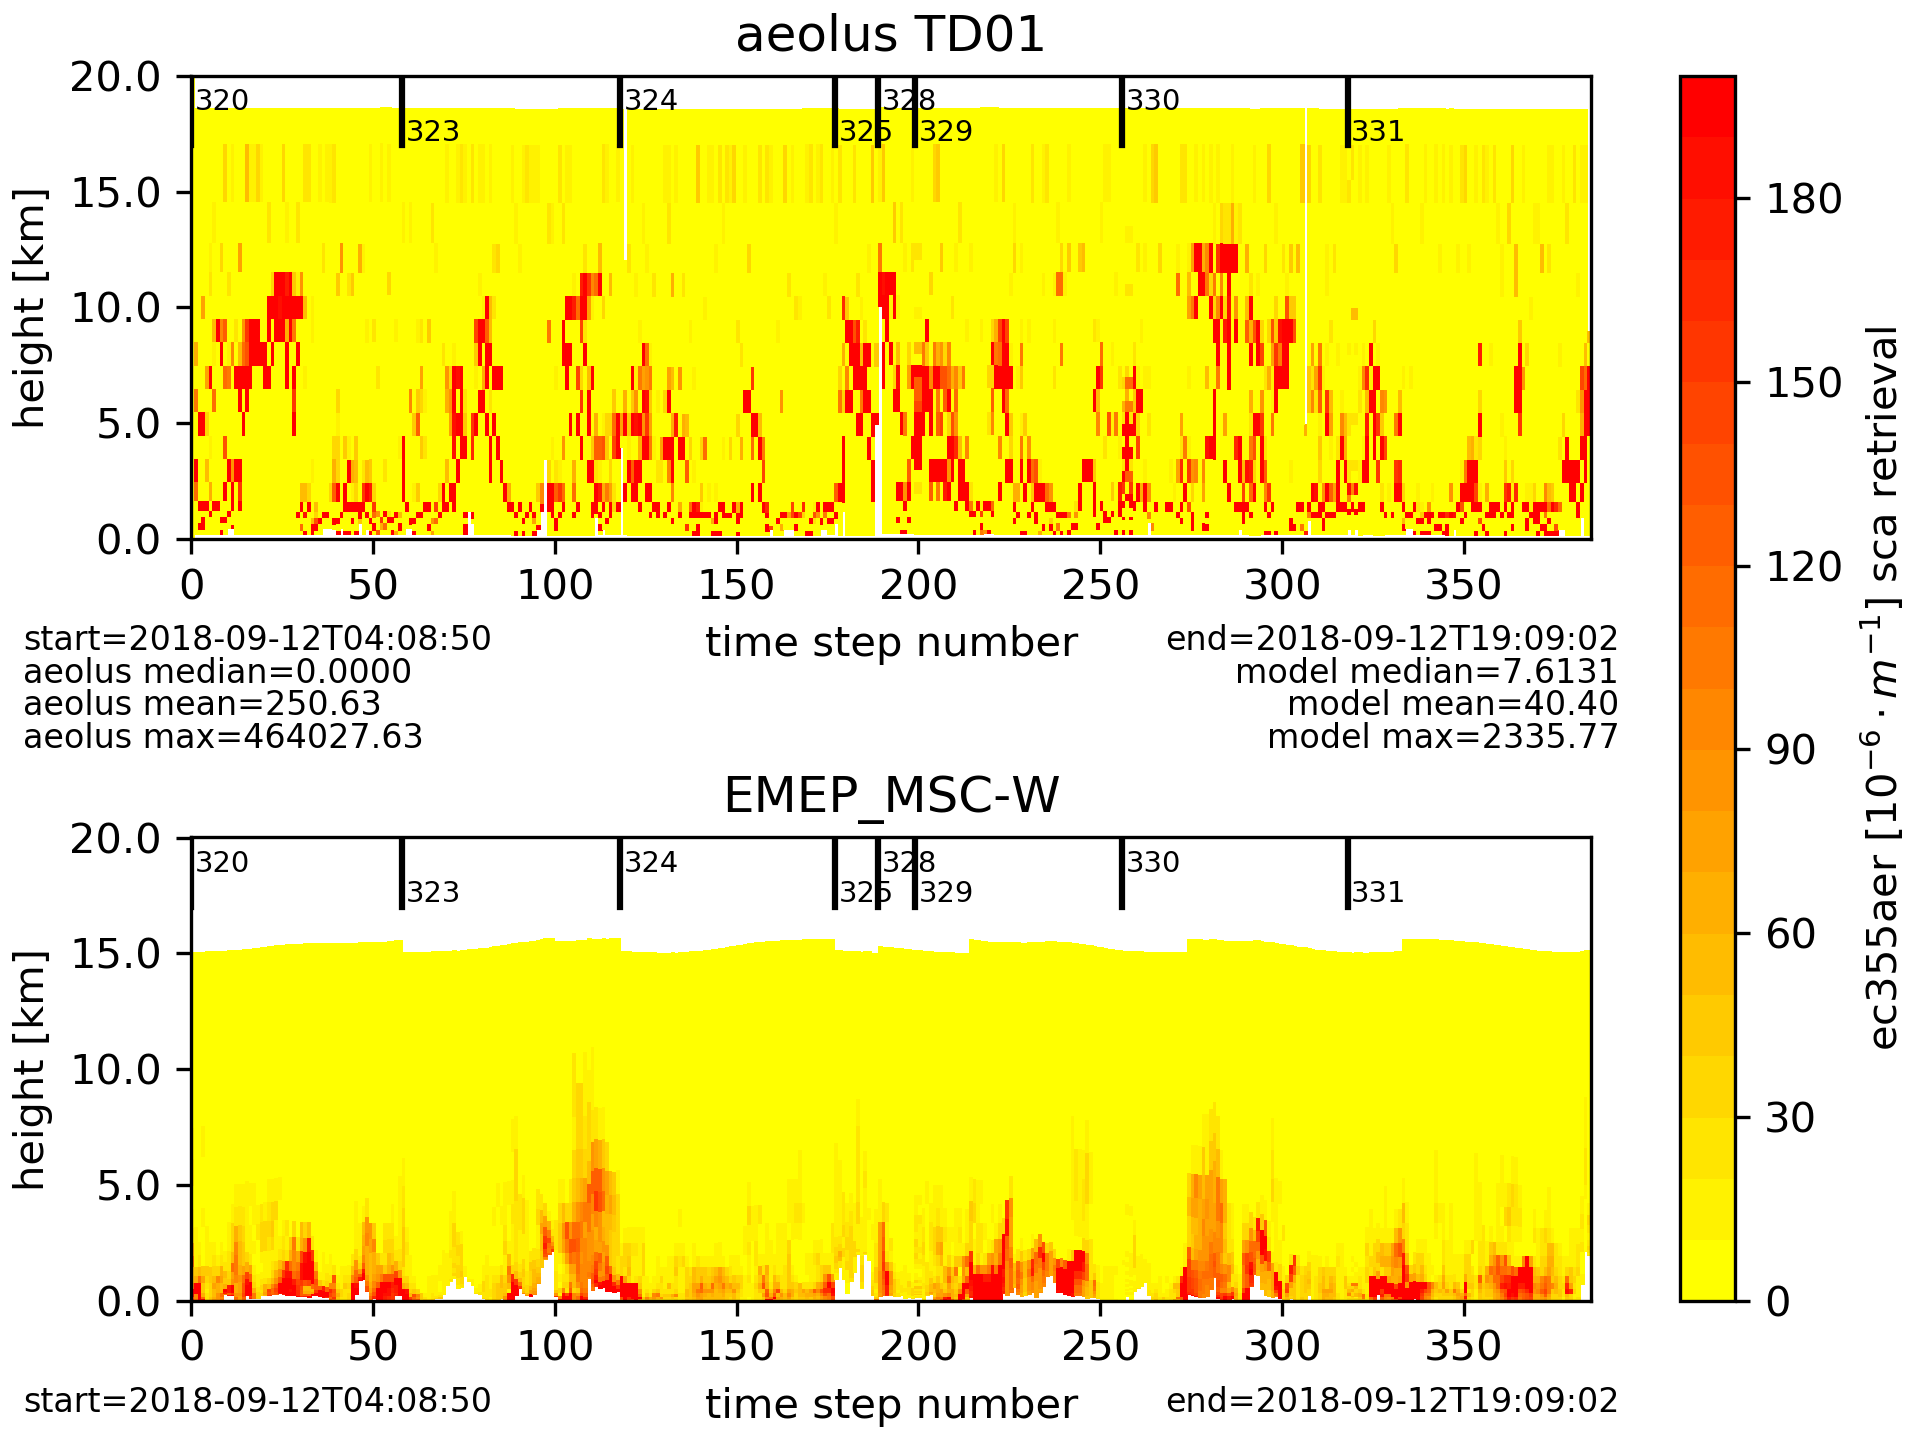
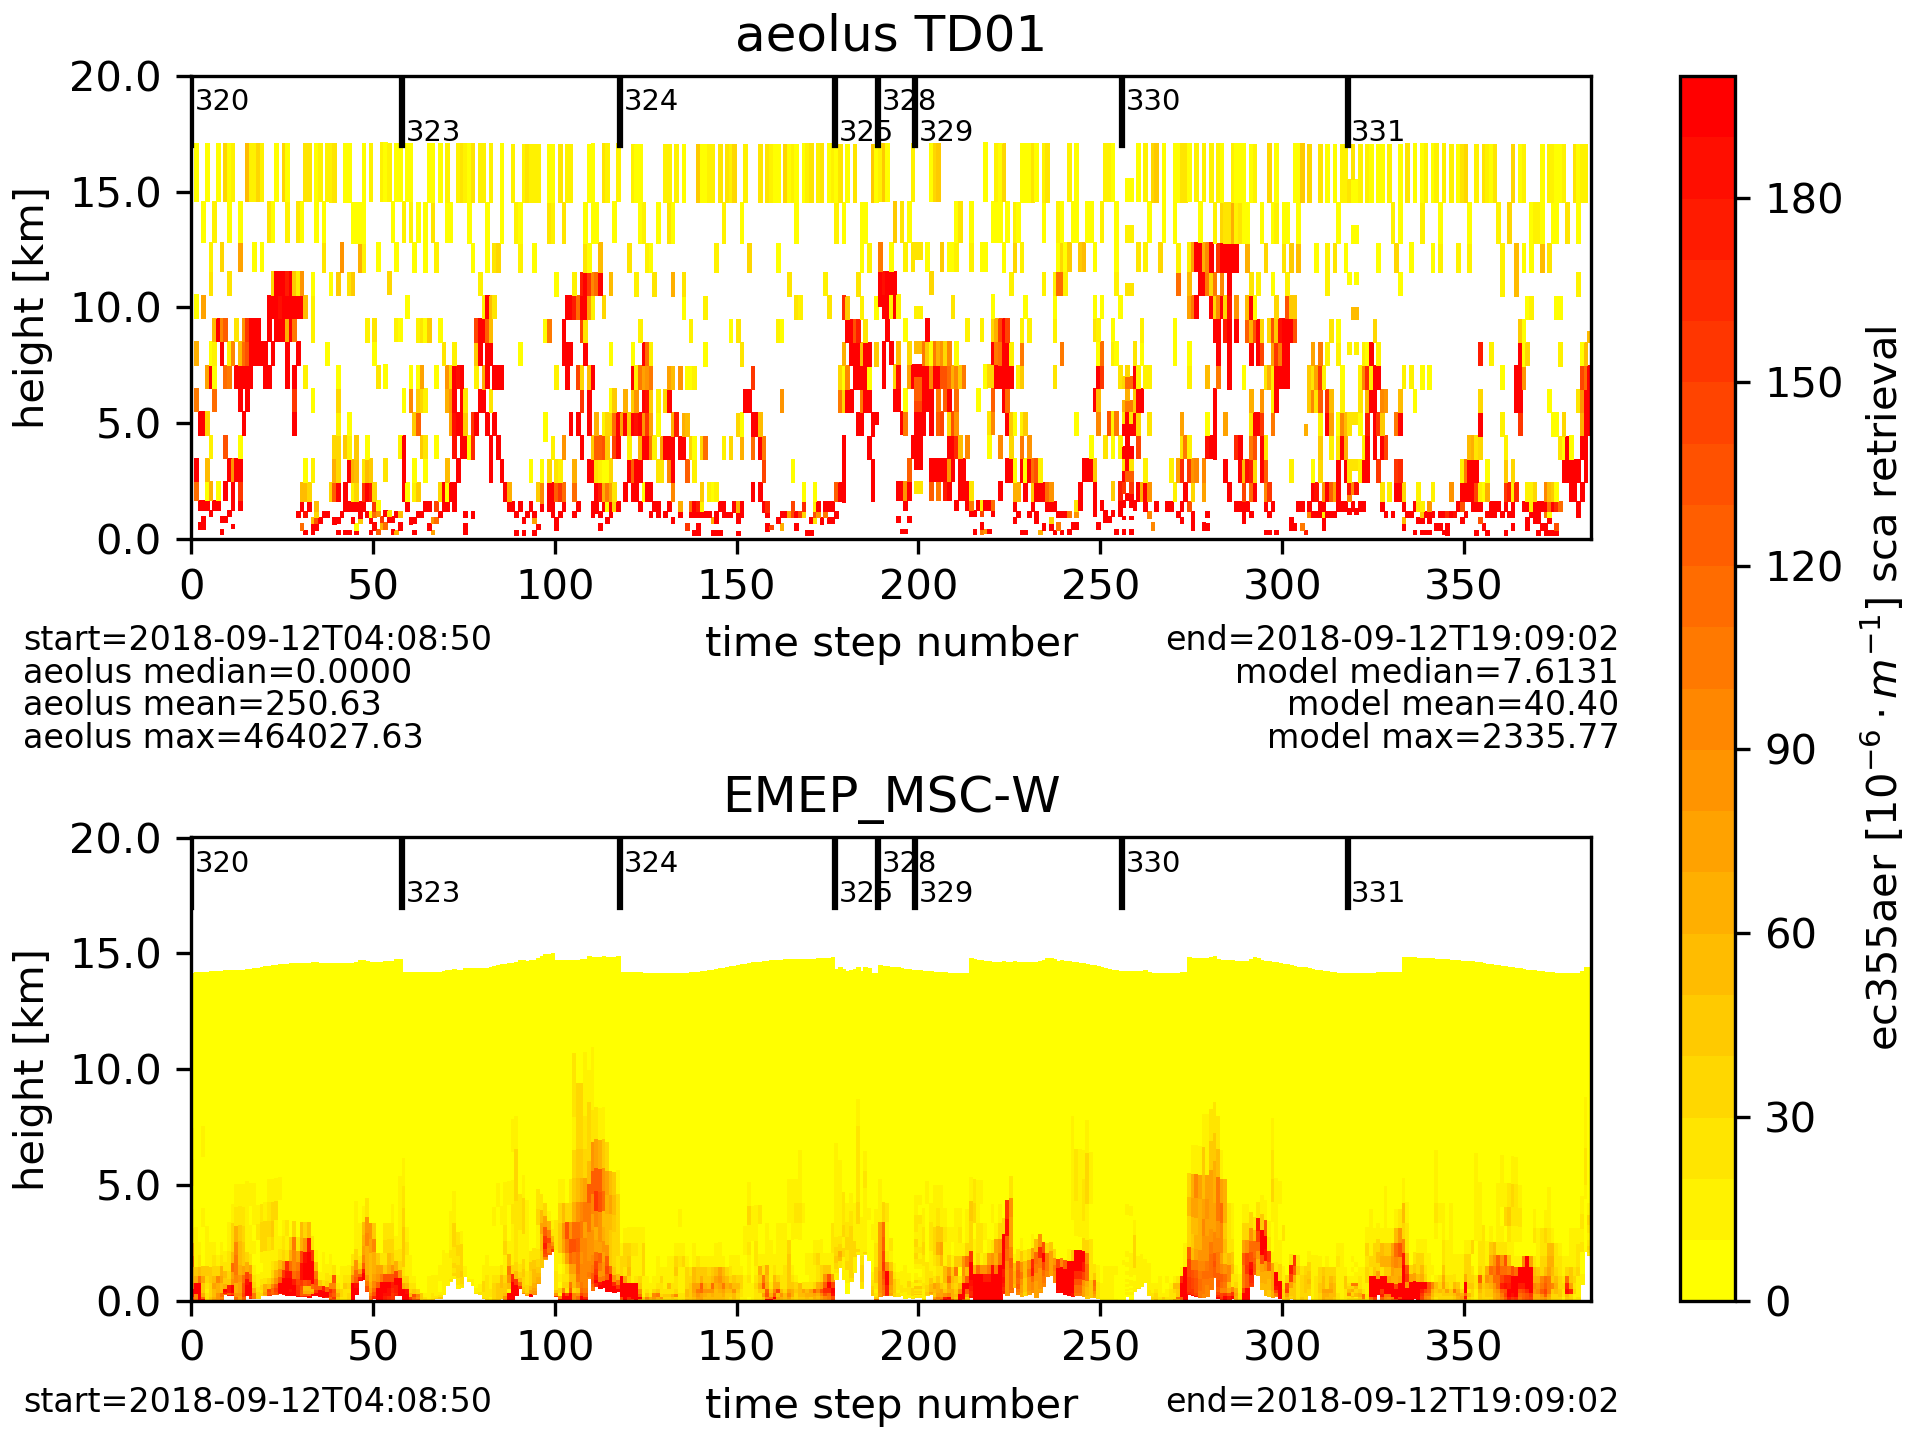
as of 20190319

Changed region(s): [[0.0938, 0.0625, 0.8438, 0.375], [0.0938, 0.625, 0.8438, 0.6875]]

diff --git a/read_colocation_files.py b/read_colocation_files.py
@@ -443,7 +443,8 @@ class ReadCoLocationData:
                                  plot_nbins=20.,
                                  linear_time=False,
                                  plot_orbit_info=True,
-                                 plot_stat_info=True):
+                                 plot_stat_info=True,
+                                 zero_to_nans=False):
         """plot sample profile plot with
         all time steps found in data dict regardless in which dict
 
@@ -615,6 +616,13 @@ class ReadCoLocationData:
                 # cmap = plt.get_cmap('PiYG')
                 cmap = plt.get_cmap('autumn_r')
                 norm = BoundaryNorm(levels, ncolors=cmap.N, clip=True)
+
+                if zero_to_nans:
+                    # set all zeros to NaNs
+                    pass
+                    self.logger.info('setting zeros to NaNs for plotting...')
+                    # plot_out_arr = np.where(plot_out_arr == 0., plot_out_arr, np.nan)
+                    plot_out_arr = np.where(plot_out_arr == 0., np.nan, plot_out_arr)
 
                 plot_handle.append(axs[plot_index].pcolormesh(plot_out_arr.transpose(), cmap=cmap, norm=norm))
                 # plot the orbit info
@@ -847,6 +855,7 @@ if __name__ == '__main__':
 
     # parser.add_argument("-O", "--overwrite", help="overwrite output file", action='store_true')
     # parser.add_argument("--emep", help="flag to limit the read data to the cal/val model domain", action='store_true')
+    parser.add_argument("--zerotonans", help="flag to plot zeros as NaNs", action='store_true')
     # parser.add_argument("--latmin", help="min latitude to return", default=np.float_(30.))
     # parser.add_argument("--latmax", help="max latitude to return", default=np.float_(76.))
     # parser.add_argument("--lonmin", help="min longitude to return", default=np.float_(-30.))
@@ -868,6 +877,11 @@ if __name__ == '__main__':
                         default='ec355aer,bs355aer')
 
     args = parser.parse_args()
+
+    if args.zerotonans:
+        options['zerotonans'] = True
+    else:
+        options['zerotonans'] = False
 
     if args.plotmapfile:
         options['plotmapfile'] = args.plotmapfile
@@ -1008,7 +1022,8 @@ if __name__ == '__main__':
     if 'plotfile' in options:
         obj.logger.info('plotting profile to file: {}...'.format(options['plotfile']))
         obj.plot_profile_independent(data_dict, options['plotfile'], retrieval_name=options['retrieval'],
-                                     plot_range=(0., 200.))
+                                     plot_range=(0., 200.),
+                                     zero_to_nans=options['zerotonans'])
         obj.logger.info('plotting done')
 
     if 'plotmapfile' in options:
